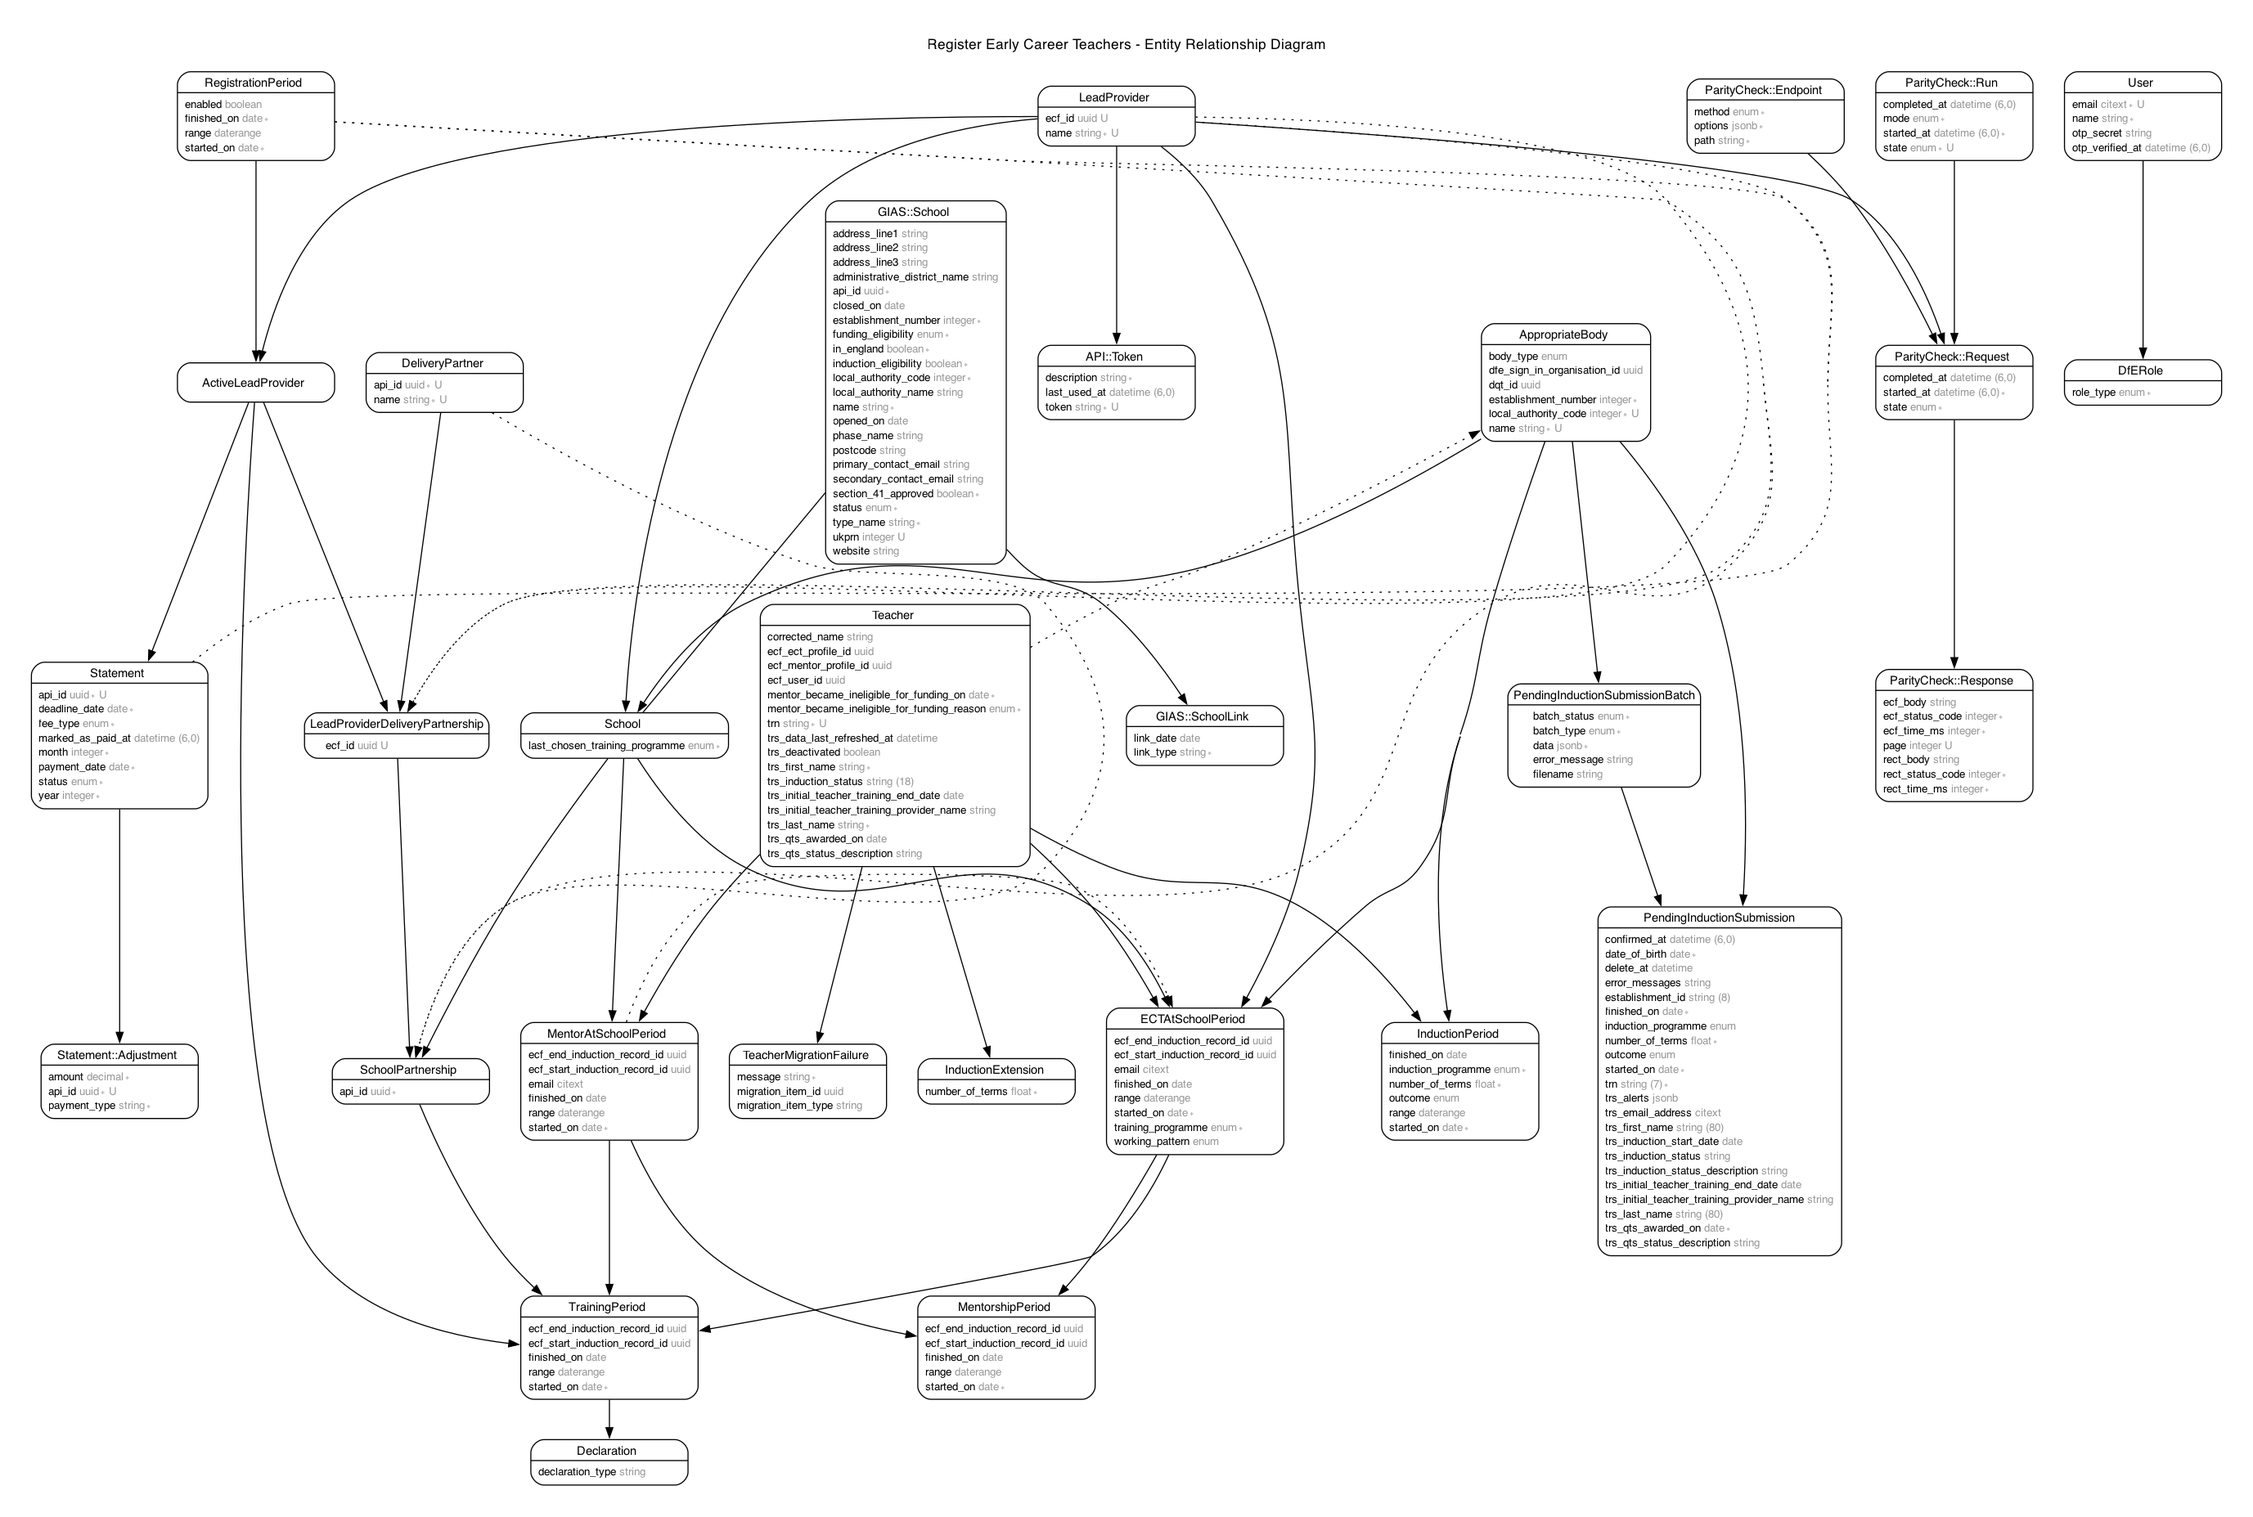
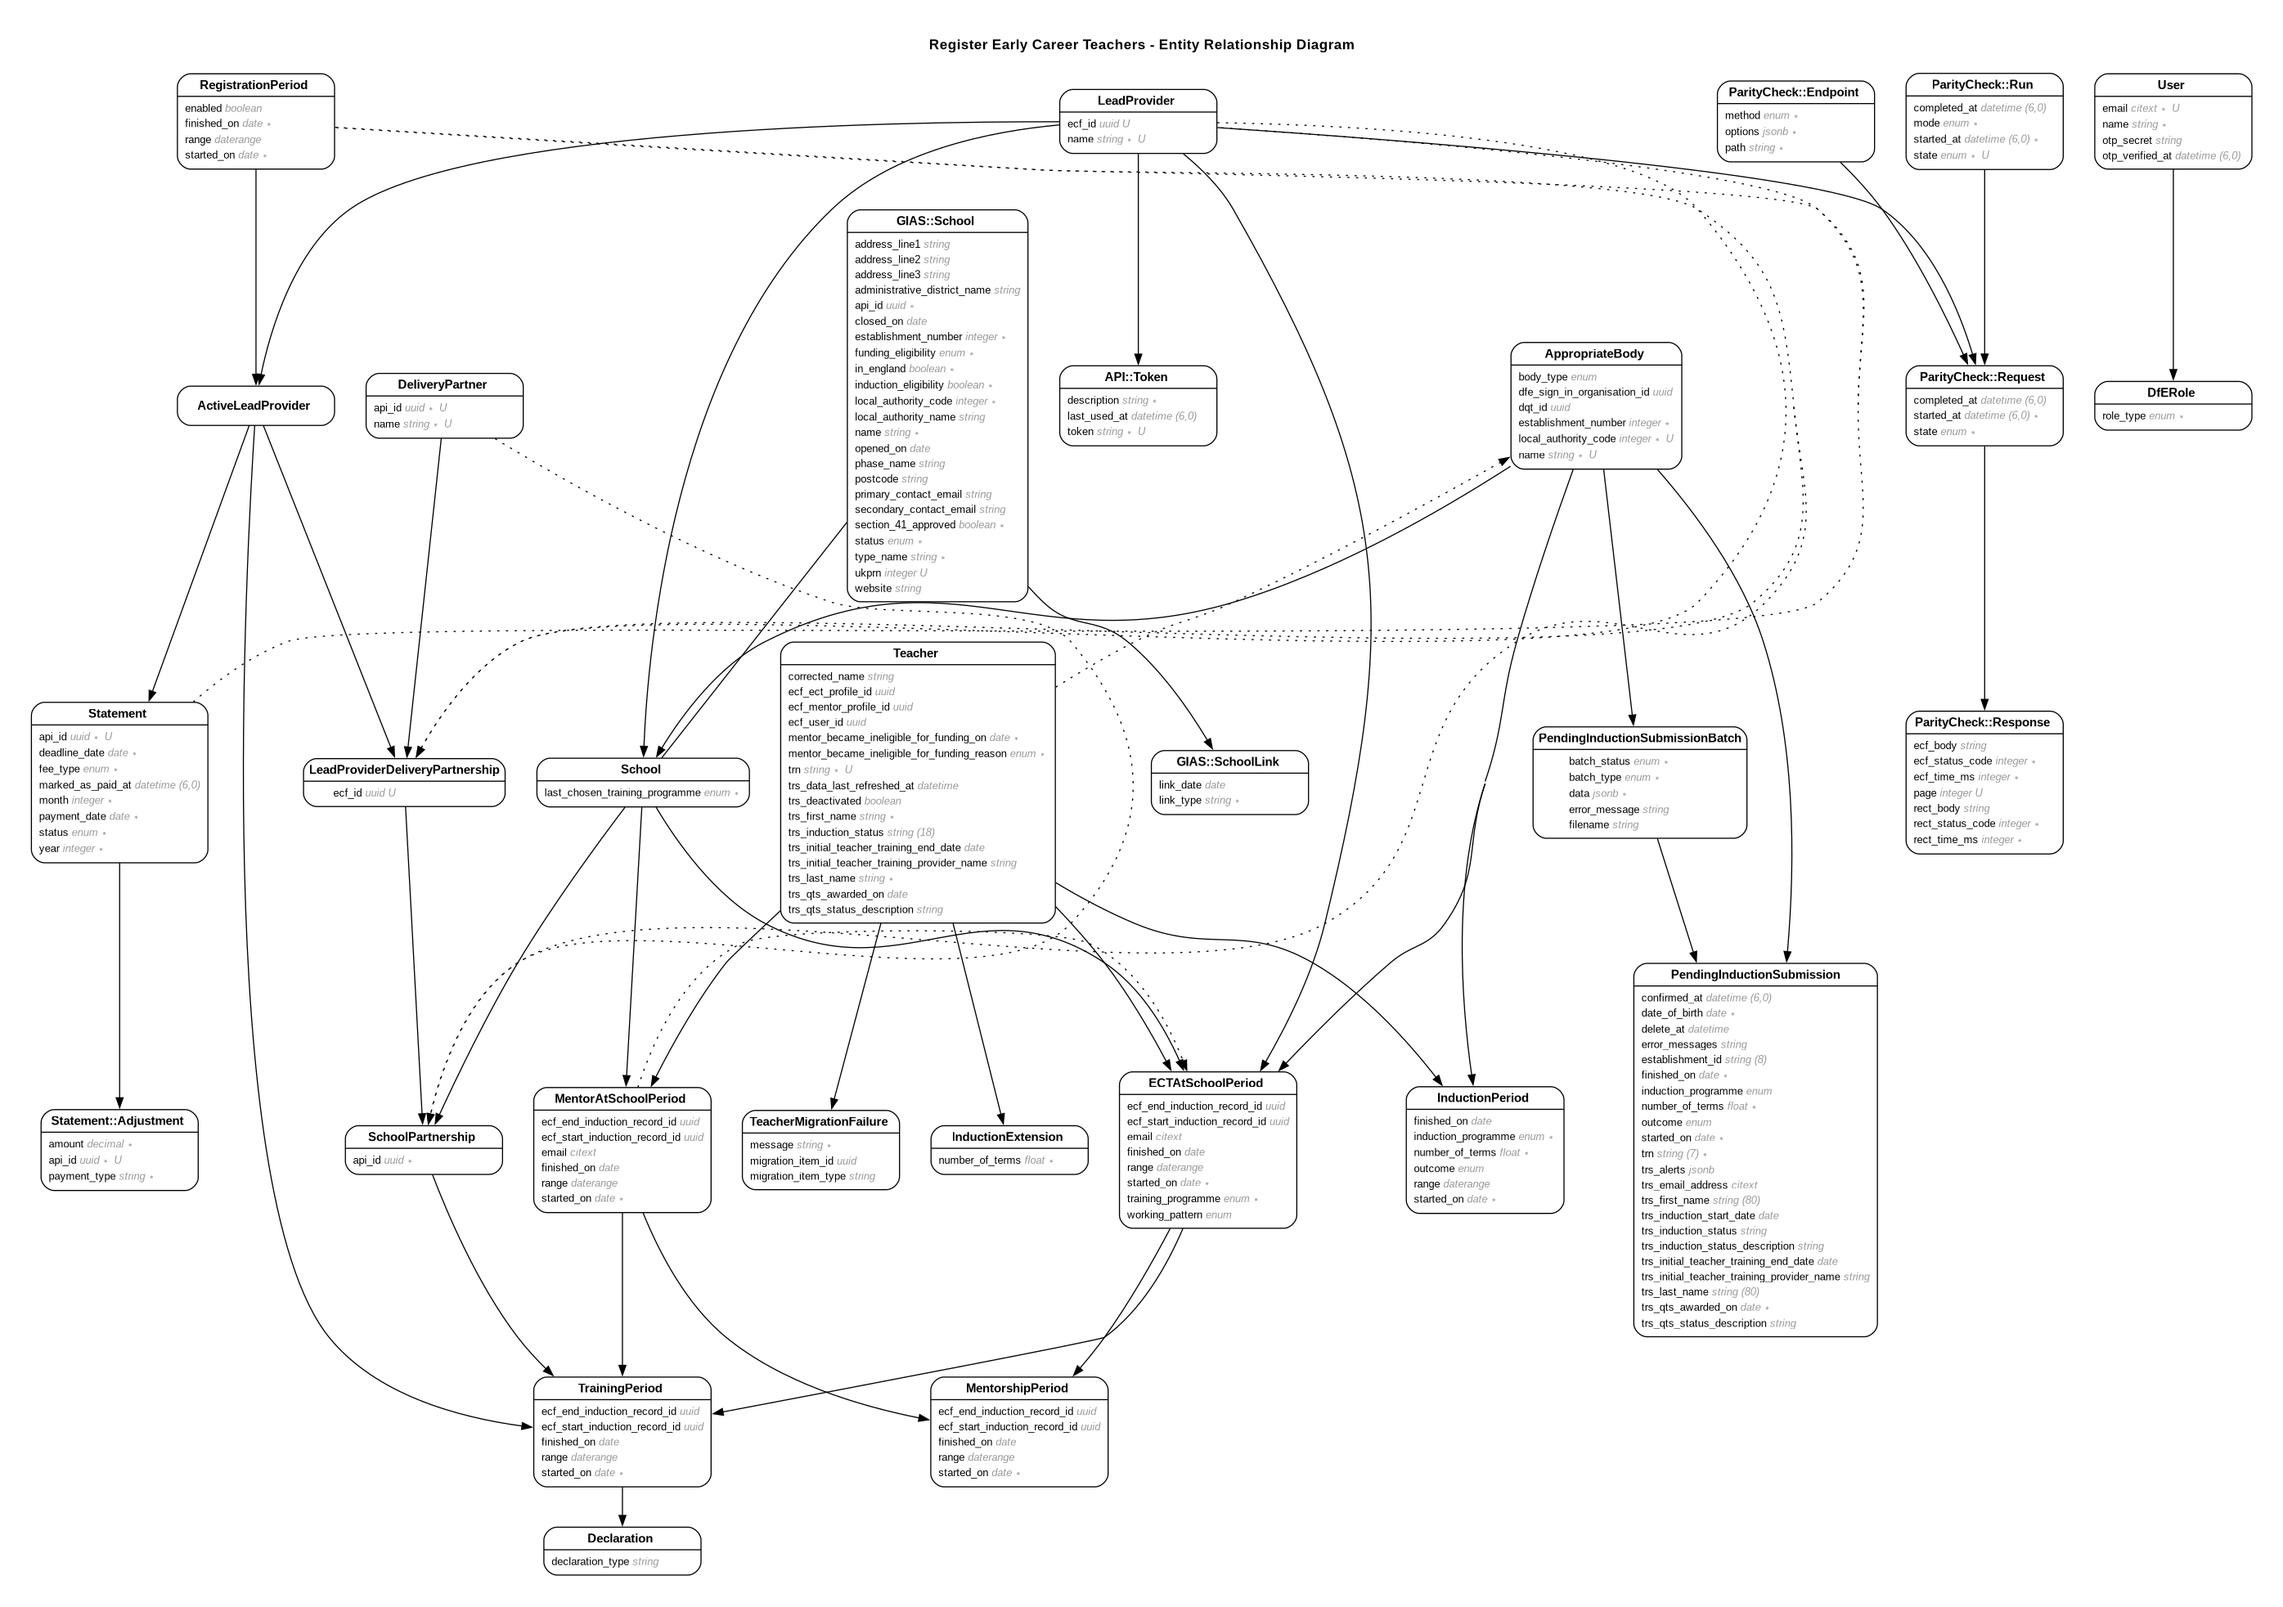
Remove the 'not null' from trs first and last names
TRS doesn't enforce the presence of the teacher's first and last names
but we do. This means we have sync errors when refreshing teacher
details.

This change removes the 'not null' constraint from TRS first and last
name. It needs to drop/recreate the search column because PostgreSQL
won't allow column changes when they're depended on by other fields.

It also removes the 80 character limit. We don't enter this data
ourselves and are reliant on TRS, so just accept what we're given.

diff --git a/db/schema.rb b/db/schema.rb
@@ -10,7 +10,7 @@
 #
 # It's strongly recommended that you check this file into your version control system.
 
-ActiveRecord::Schema[8.0].define(version: 2025_06_25_124419) do
+ActiveRecord::Schema[8.0].define(version: 2025_06_26_150847) do
   # These are extensions that must be enabled in order to support this database
   enable_extension "citext"
   enable_extension "pg_catalog.plpgsql"
@@ -654,9 +654,8 @@ ActiveRecord::Schema[8.0].define(version: 2025_06_25_124419) do
     t.datetime "created_at", null: false
     t.datetime "updated_at", null: false
     t.string "trn", null: false
-    t.string "trs_first_name", null: false
-    t.string "trs_last_name", null: false
-    t.virtual "search", type: :tsvector, as: "to_tsvector('unaccented'::regconfig, (((((COALESCE(trs_first_name, ''::character varying))::text || ' '::text) || (COALESCE(trs_last_name, ''::character varying))::text) || ' '::text) || (COALESCE(corrected_name, ''::character varying))::text))", stored: true
+    t.string "trs_first_name"
+    t.string "trs_last_name"
     t.uuid "ecf_user_id"
     t.uuid "ecf_ect_profile_id"
     t.uuid "ecf_mentor_profile_id"
@@ -669,6 +668,7 @@ ActiveRecord::Schema[8.0].define(version: 2025_06_25_124419) do
     t.date "mentor_became_ineligible_for_funding_on"
     t.enum "mentor_became_ineligible_for_funding_reason", enum_type: "mentor_became_ineligible_for_funding_reason"
     t.boolean "trs_deactivated", default: false
+    t.virtual "search", type: :tsvector, as: "to_tsvector('unaccented'::regconfig, (((((COALESCE(trs_first_name, ''::character varying))::text || ' '::text) || (COALESCE(trs_last_name, ''::character varying))::text) || ' '::text) || (COALESCE(corrected_name, ''::character varying))::text))", stored: true
     t.index ["corrected_name"], name: "index_teachers_on_corrected_name"
     t.index ["search"], name: "index_teachers_on_search", using: :gin
     t.index ["trn"], name: "index_teachers_on_trn", unique: true

diff --git a/db/migrate/20250626150847_remove_not_null_from_trs_teacher_names.rb b/db/migrate/20250626150847_remove_not_null_from_trs_teacher_names.rb
@@ -1,0 +1,23 @@
+class RemoveNotNullFromTRSTeacherNames < ActiveRecord::Migration[8.0]
+  # rubocop:disable Rails/BulkChangeTable
+  def up
+    remove_column :teachers, :search, :tsvector, type: :tsvector, as: "to_tsvector('unaccented', #{tsvector_columns})", stored: true
+    change_column :teachers, :trs_first_name, :string, null: true
+    change_column :teachers, :trs_last_name, :string, null: true
+    add_column :teachers, :search, :tsvector, type: :tsvector, as: "to_tsvector('unaccented', #{tsvector_columns})", stored: true
+    add_index :teachers, :search, using: :gin
+  end
+
+  def down
+    remove_column :teachers, :search, :tsvector, type: :tsvector, as: "to_tsvector('unaccented', #{tsvector_columns})", stored: true
+    change_column :teachers, :trs_first_name, :string, null: false, limit: 80
+    change_column :teachers, :trs_last_name, :string, null: false, limit: 80
+    add_column :teachers, :search, :tsvector, type: :tsvector, as: "to_tsvector('unaccented', #{tsvector_columns})", stored: true
+    add_index :teachers, :search, using: :gin
+  end
+
+  def tsvector_columns
+    %w[trs_first_name trs_last_name corrected_name].map { |col| "coalesce(#{col}, '')" }.join(" || ' ' || ")
+  end
+  # rubocop:enable Rails/BulkChangeTable
+end
